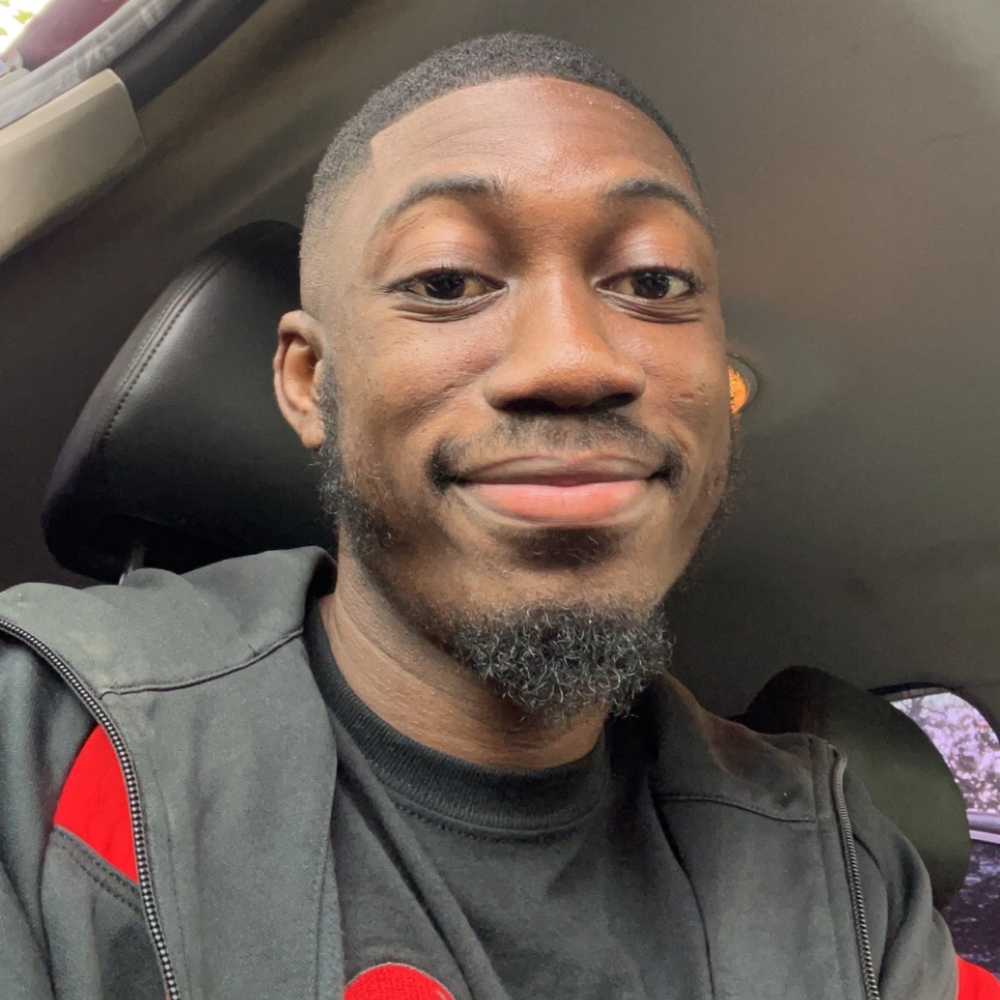
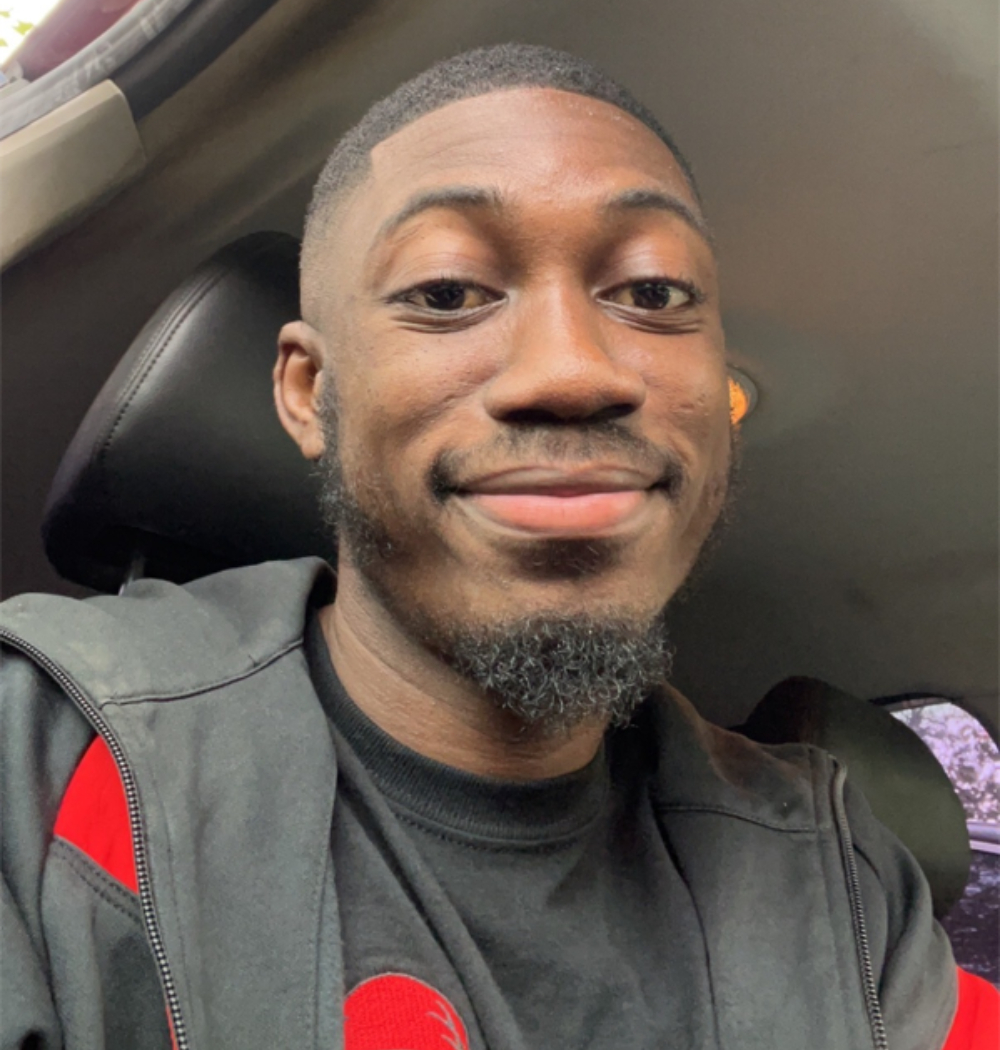
adjusting photos

diff --git a/team.html b/team.html
@@ -65,8 +65,8 @@
     <table class="table">
       <tr>
         <td align="center"><img src="images/jessicaselfie.jpg" width="100%" style="border-radius: 50px;"></td>
-        <td align="center"><img src="images/Ebyselfie.jpg" width="90%" style="border-radius: 50px;"></td>
-        <td align="center"><img src="images/kenselfie.jpg" width="66%" style="border-radius: 50px;"></td>
+        <td align="center"><img src="images/Ebyselfie.jpg" width="86%" style="border-radius: 50px;"></td>
+        <td align="center"><img src="images/kenselfie.jpg" width="65%" style="border-radius: 50px;"></td>
         <td align="center"><img src="images/yassineselfie.jpg" width="92%" style="border-radius: 50px;"></td>
       </tr>
       <tr>
